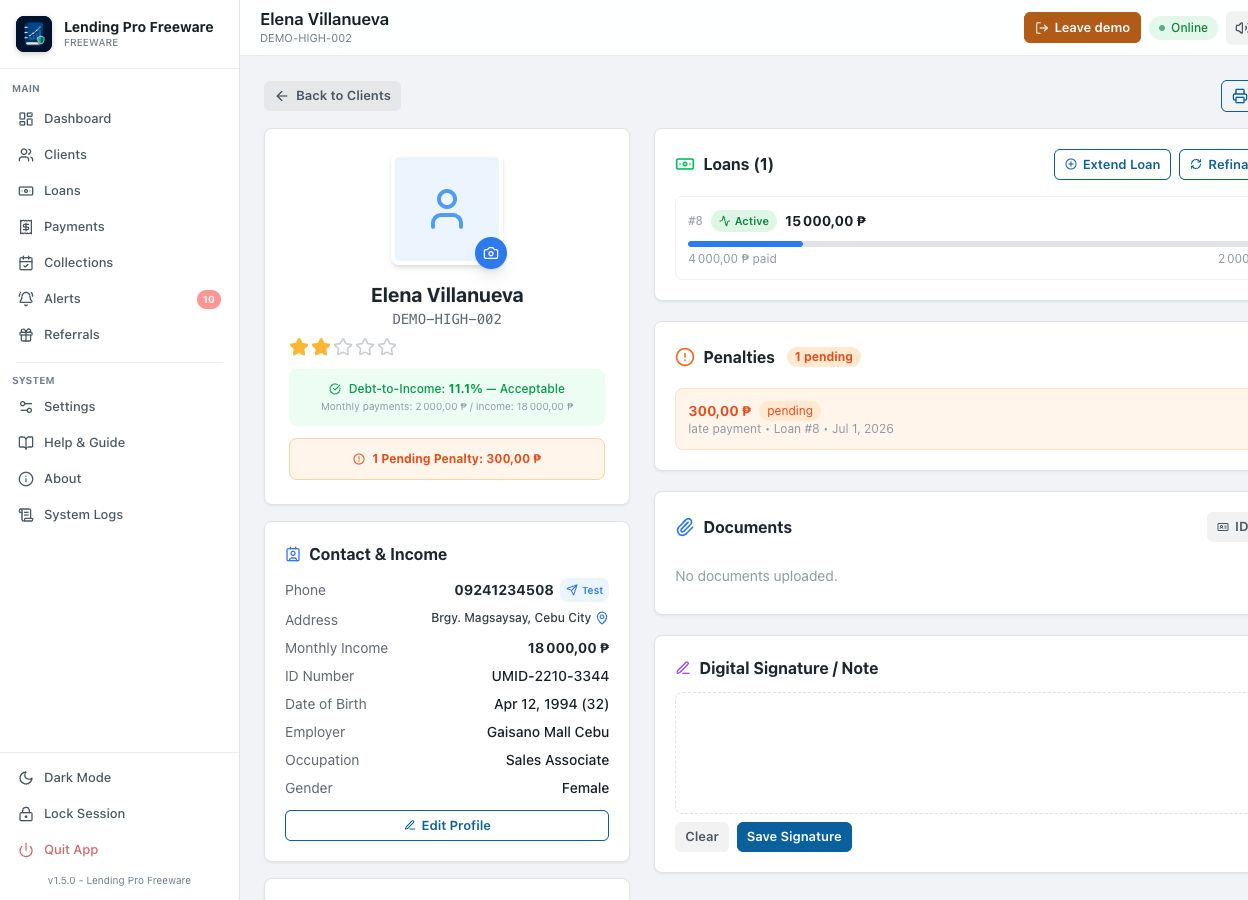
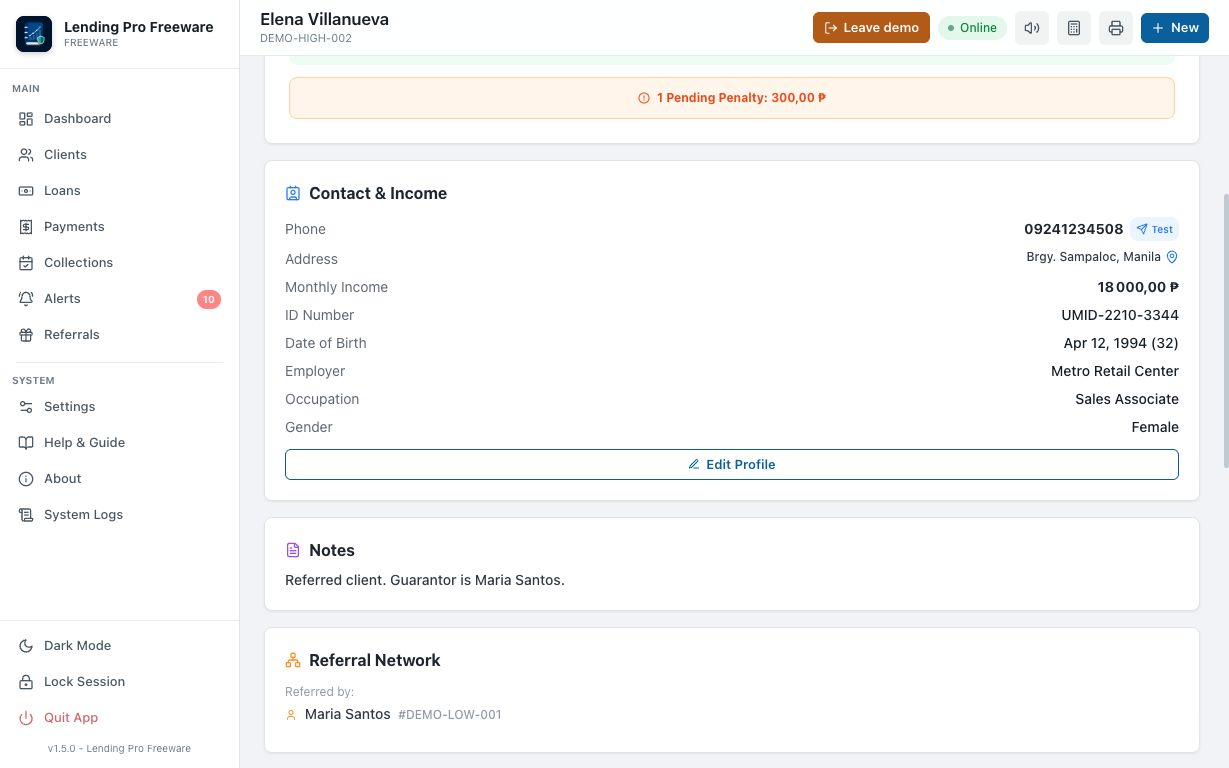
Anonymize public demo data (#6)

diff --git a/web/pages/about.js b/web/pages/about.js
@@ -16,7 +16,7 @@ const AboutPage = {
             }
         } catch (e) { }
 
-        const contactEmail = 'alain.eric@ik.me';
+        const supportUrl = 'https://github.com/aston76/lending-pro-freeware/issues';
 
         content.innerHTML = `
             <!-- Hero -->
@@ -63,19 +63,19 @@ const AboutPage = {
                     <div class="flex flex-col sm:flex-row items-center gap-4">
                         <div class="w-12 h-12 rounded-full flex items-center justify-center flex-shrink-0"
                              style="background: rgba(0,122,255,0.12);">
-                            <i data-lucide="mail" class="w-6 h-6" style="color: var(--accent);"></i>
+                            <i data-lucide="messages-square" class="w-6 h-6" style="color: var(--accent);"></i>
                         </div>
                         <div class="flex-1 min-w-0 text-center sm:text-left">
-                            <p class="text-xs font-semibold uppercase tracking-wider mb-0.5" style="color: var(--text-tertiary);">Contact</p>
-                            <p class="font-semibold text-sm break-all" style="color: var(--text-primary);">${contactEmail}</p>
+                            <p class="text-xs font-semibold uppercase tracking-wider mb-0.5" style="color: var(--text-tertiary);">Public support</p>
+                            <p class="font-semibold text-sm" style="color: var(--text-primary);">GitHub Issues</p>
                             <p class="text-xs mt-1" style="color: var(--text-secondary);">
-                                Describe your requirements to receive a response and customization quote.
+                                Report a problem or propose an improvement without exposing private customer data.
                             </p>
                         </div>
-                        <button onclick="AboutPage.contact('${contactEmail}')"
+                        <button onclick="AboutPage.openSupport('${supportUrl}')"
                                 class="btn btn-primary flex items-center gap-2 flex-shrink-0">
-                            <i data-lucide="send" class="w-4 h-4"></i>
-                            <span>Send a message</span>
+                            <i data-lucide="external-link" class="w-4 h-4"></i>
+                            <span>Open support</span>
                         </button>
                     </div>
                 </div>
@@ -97,7 +97,7 @@ const AboutPage = {
             <!-- Footer -->
             <div class="mt-6 text-center">
                 <p class="text-xs" style="color: var(--text-tertiary);">
-                    ${appName} · Version ${version} · Developed by Alain
+                    ${appName} · Version ${version} · Aston Swiss App
                 </p>
             </div>
         `;
@@ -116,23 +116,14 @@ const AboutPage = {
         `;
     },
 
-    async contact(email) {
-        const subject = encodeURIComponent('Customization request — Lending Pro Freeware');
-        const body = encodeURIComponent(
-            'Hello,\n\n' +
-            'I would like to adapt the software to my business.\n\n' +
-            'My requirements:\n' +
-            '— \n\n' +
-            'Kind regards,'
-        );
-        const mailto = `mailto:${email}?subject=${subject}&body=${body}`;
+    async openSupport(url) {
         try {
-            const res = await App.api('open_url', mailto);
+            const res = await App.api('open_url', url);
             if (res && res.success === false) {
-                UI.toast('Could not open your email app. Write to: ' + email, 'warning');
+                UI.toast('Could not open GitHub Issues.', 'warning');
             }
         } catch (e) {
-            UI.toast('Write to: ' + email, 'info');
+            UI.toast('Support: github.com/aston76/lending-pro-freeware/issues', 'info');
         }
     }
 };

diff --git a/web/app.js b/web/app.js
@@ -617,7 +617,7 @@ const App = {
             commissions: ['Referral Commissions', 'Track referral earnings'],
             settings: ['Settings', 'Application configuration and backup'],
             help: ['Help & User Guide', 'Complete guide to using Lending Pro Freeware'],
-            about: ['About', 'Application information and custom development contact'],
+            about: ['About', 'Application information and public project support'],
             logs: ['System Logs', 'Persistent logs — errors & events'],
         };
 

diff --git a/demo_generator.py b/demo_generator.py
@@ -94,7 +94,7 @@ def _add_client(c, cid, first, last, contact, rating=4, notes="", monthly_income
                              rating, referred_by, notes, monthly_income, created_at, updated_at)
         VALUES (?, ?, ?, ?, ?, ?, ?, ?, ?, ?, ?)
     """, (cid, first, last,
-          f"Brgy. {random.choice(['Santo Niño','Poblacion','San Roque','Magsaysay'])}, Cebu City",
+          f"Brgy. {random.choice(['Tondo', 'Sampaloc', 'Paco', 'Pandacan'])}, Manila",
           contact, rating, referred_by, notes, monthly_income, ago, now))
 
 
@@ -418,17 +418,17 @@ def _enhance_with_v14_features():
 
     # ── KYC data for key clients ────────────────────────────────
     kyc = {
-        "DEMO-LOW-001":   ("SSS-34-8812345",  "1988-03-15", "female", "Cebu Pacific Cargo",  "Warehouse Staff"),
-        "DEMO-LOW-003":   ("UMID-5542-9981",  "1991-09-02", "female", "Chong Hua Hospital",   "Registered Nurse"),
+        "DEMO-LOW-001":   ("SSS-34-8812345",  "1988-03-15", "female", "Metro Cargo Services", "Warehouse Staff"),
+        "DEMO-LOW-003":   ("UMID-5542-9981",  "1991-09-02", "female", "City General Hospital", "Registered Nurse"),
         "DEMO-MED-001":   ("PH-2019-44587",   "1985-06-20", "male",   "Self-employed",        "Sari-sari Store Owner"),
         "DEMO-HIGH-001":  ("SSS-34-7781234",  "1979-11-08", "male",   "Construction Contract","Foreman"),
-        "DEMO-HIGH-002":  ("UMID-2210-3344",  "1994-04-12", "female", "Gaisano Mall Cebu",    "Sales Associate"),
+        "DEMO-HIGH-002":  ("UMID-2210-3344",  "1994-04-12", "female", "Metro Retail Center",  "Sales Associate"),
         "DEMO-CRIT-001":  ("SSS-33-6677123",  "1972-01-30", "male",   "Freelance",            "Jeepney Driver"),
         "DEMO-CRIT-002":  ("PH-2020-12098",   "1968-08-14", "female", "Retired",              "Pensioner"),
-        "DEMO-GOOD-001":  ("SSS-34-1123456",  "1992-05-25", "male",   "Ayala Malls Cebu",     "Store Manager"),
-        "DEMO-GOOD-002":  ("UMID-9981-2233",  "1987-12-03", "female", "PLDT Cebu",            "Team Lead"),
-        "DEMO-GOOD-006":  ("PH-2018-77654",   "1983-07-17", "female", "SM Seaside Cebu",      "Restaurant Owner"),
-        "DEMO-PAID-002":  ("SSS-34-9988776",  "1990-02-28", "male",   "BDO Branch Cebu",      "Bank Teller"),
+        "DEMO-GOOD-001":  ("SSS-34-1123456",  "1992-05-25", "male",   "Metro Retail Center",  "Store Manager"),
+        "DEMO-GOOD-002":  ("UMID-9981-2233",  "1987-12-03", "female", "National Telecom Services", "Team Lead"),
+        "DEMO-GOOD-006":  ("PH-2018-77654",   "1983-07-17", "female", "Harbor Restaurant Group", "Restaurant Owner"),
+        "DEMO-PAID-002":  ("SSS-34-9988776",  "1990-02-28", "male",   "Commercial Bank Branch", "Bank Teller"),
         "DEMO-DEF-001":   ("SSS-33-5544332",  "1976-10-09", "male",   "Freelance",            "Market Vendor"),
     }
     for cid, (id_num, dob, gender, employer, occ) in kyc.items():
@@ -440,17 +440,17 @@ def _enhance_with_v14_features():
     # ── Collectors ──────────────────────────────────────────────
     c.execute(
         "INSERT INTO collectors (name, contact, active, notes, created_at) VALUES (?, ?, 1, ?, ?)",
-        ("Jun Dela Peña", "0917-555-0101", "North Cebu City routes", now_str),
+        ("Jun Dela Peña", "0917-555-0101", "North Manila routes", now_str),
     )
     collector_north = c.lastrowid
     c.execute(
         "INSERT INTO collectors (name, contact, active, notes, created_at) VALUES (?, ?, 1, ?, ?)",
-        ("Cora Villanueva", "0917-555-0102", "Mandaue and Lapu-Lapu routes", now_str),
+        ("Cora Villanueva", "0917-555-0102", "South Manila routes", now_str),
     )
     collector_south = c.lastrowid
     c.execute(
         "INSERT INTO collectors (name, contact, active, notes, created_at) VALUES (?, ?, 0, ?, ?)",
-        ("Tony Reyes", "0917-555-0103", "Inactive — transferred to Manila", now_str),
+        ("Tony Reyes", "0917-555-0103", "Inactive — transferred to Quezon City", now_str),
     )
 
     for cid in ("DEMO-LOW-001", "DEMO-LOW-002", "DEMO-HIGH-001", "DEMO-CRIT-001", "DEMO-MED-001"):
@@ -482,7 +482,7 @@ def _enhance_with_v14_features():
             """INSERT INTO guarantors
                (loan_id, client_id, name, contact, relation, id_number, address, signature_path, notes, created_at)
                VALUES (?, ?, ?, ?, ?, ?, ?, '', '', ?)""",
-            (row["id"], client_id, name, contact, relation, id_number, "Cebu City", now_str),
+            (row["id"], client_id, name, contact, relation, id_number, "Manila", now_str),
         )
 
     _guarantor("DEMO-HIGH-002", "Maria Santos",     "09171234501", "Sister",    "SSS-34-8812345")

diff --git a/tests/test_core_workflows.py b/tests/test_core_workflows.py
@@ -194,6 +194,28 @@ def test_help_content_is_built_only_after_app_initialization():
     assert "UI.currencyCode()" not in eager_prefix
 
 
+def test_public_sources_exclude_maintainer_personal_details():
+    project_root = Path(__file__).resolve().parents[1]
+    text_suffixes = {".bat", ".js", ".json", ".md", ".py", ".sh", ".txt", ".yaml", ".yml"}
+    excluded_dirs = {".git", ".venv", "node_modules", "venv", "venv_win"}
+    forbidden = (
+        "alain.eric" + "@ik.me",
+        "/Users/" + "alain",
+        "Developed by " + "Alain",
+        "Ce" + "bu",
+        "Consola" + "cion",
+        "Tolo" + "tolo",
+    )
+
+    for source_file in project_root.rglob("*"):
+        if not source_file.is_file() or source_file.suffix.lower() not in text_suffixes:
+            continue
+        if excluded_dirs.intersection(source_file.relative_to(project_root).parts):
+            continue
+        source = source_file.read_text(encoding="utf-8", errors="ignore")
+        assert not any(marker.lower() in source.lower() for marker in forbidden), source_file
+
+
 def test_legacy_bank_payment_schema_migrates(tmp_path, monkeypatch):
     support_dir = app_support_dir(str(tmp_path))
     os.makedirs(support_dir, exist_ok=True)

diff --git a/scripts/build_banner.py b/scripts/build_banner.py
@@ -1,8 +1,9 @@
 
 from PIL import Image, ImageDraw, ImageFont, ImageFilter, ImageOps, ImageChops
 import math, os
+from pathlib import Path
 
-ROOT = "/Users/alain/Mes Pojets IA/Loan Manager"
+ROOT = Path(__file__).resolve().parents[1]
 OUT = os.path.join(ROOT, "docs/screenshots/banner.png")
 BW, BH = 2400, 1000
 

diff --git a/NOUVEAUTES.md b/NOUVEAUTES.md
@@ -170,8 +170,8 @@ Le mot de passe protège également la suppression, la réinitialisation et le c
 - Nouvelle page À propos intégrée à l’application.
 - Présentation de la confidentialité, des calculs et des documents professionnels.
 - Proposition d’adaptation du logiciel aux besoins particuliers d’une entreprise.
-- Adresse de contact : **alain.eric@ik.me**.
-- Bouton ouvrant directement la messagerie de l’utilisateur avec un message prérempli.
+- Support public via les GitHub Issues du projet, sans adresse personnelle publiée dans l’application.
+- Bouton ouvrant directement la page publique de support.
 
 ## Interface et cohérence linguistique
 
@@ -226,7 +226,7 @@ Le mot de passe protège également la suppression, la réinitialisation et le c
 
 ## Emplacements des livrables
 
-- Application installée : `/Users/alain/Applications/Lending Pro Freeware.app`
+- Application installable depuis la release GitHub officielle.
 - DMG : `release/Lending-Pro-Freeware-macOS-arm64.dmg`
 - Somme SHA-256 : `release/Lending-Pro-Freeware-macOS-arm64.dmg.sha256`
 - Source du logo : `branding/lending-pro-icon-source.png`

diff --git a/CHANGELOG.md b/CHANGELOG.md
@@ -2,6 +2,11 @@
 
 Pour une présentation complète en français de toutes les nouveautés, consulter [`NOUVEAUTES.md`](NOUVEAUTES.md).
 
+## Unreleased
+
+- Replaced the regional demo geography with fictitious Metro Manila data so public examples do not reveal the maintainer's real area.
+- Replaced the personal contact address and local filesystem paths with public project support links and portable paths.
+
 ## 1.5.0 - 2026-07-27
 
 - Replaced the legacy currency-symbol icon with a new international Lending Pro brand mark combining a financial ledger, portfolio growth and protection.
